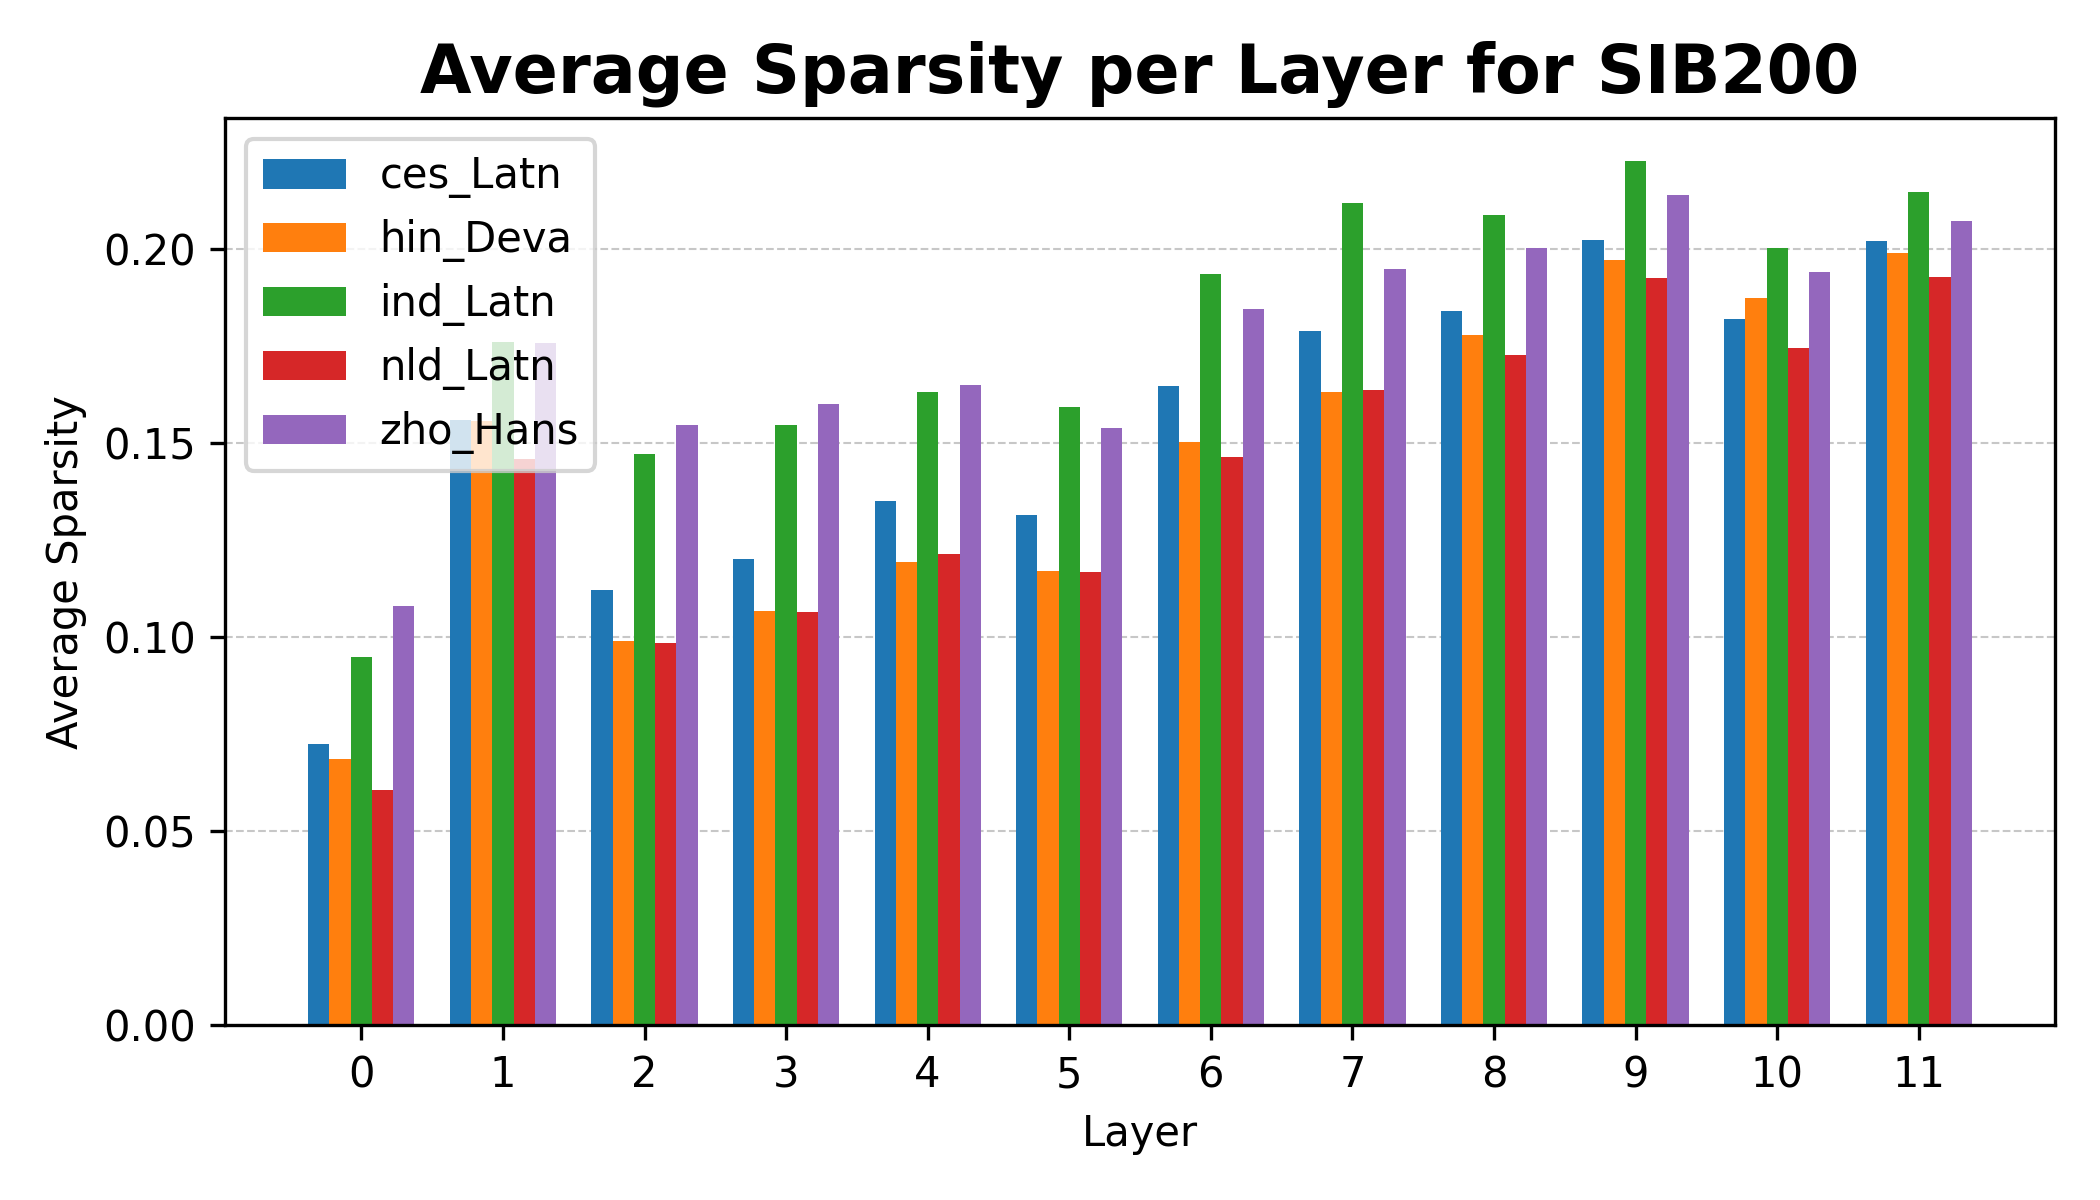
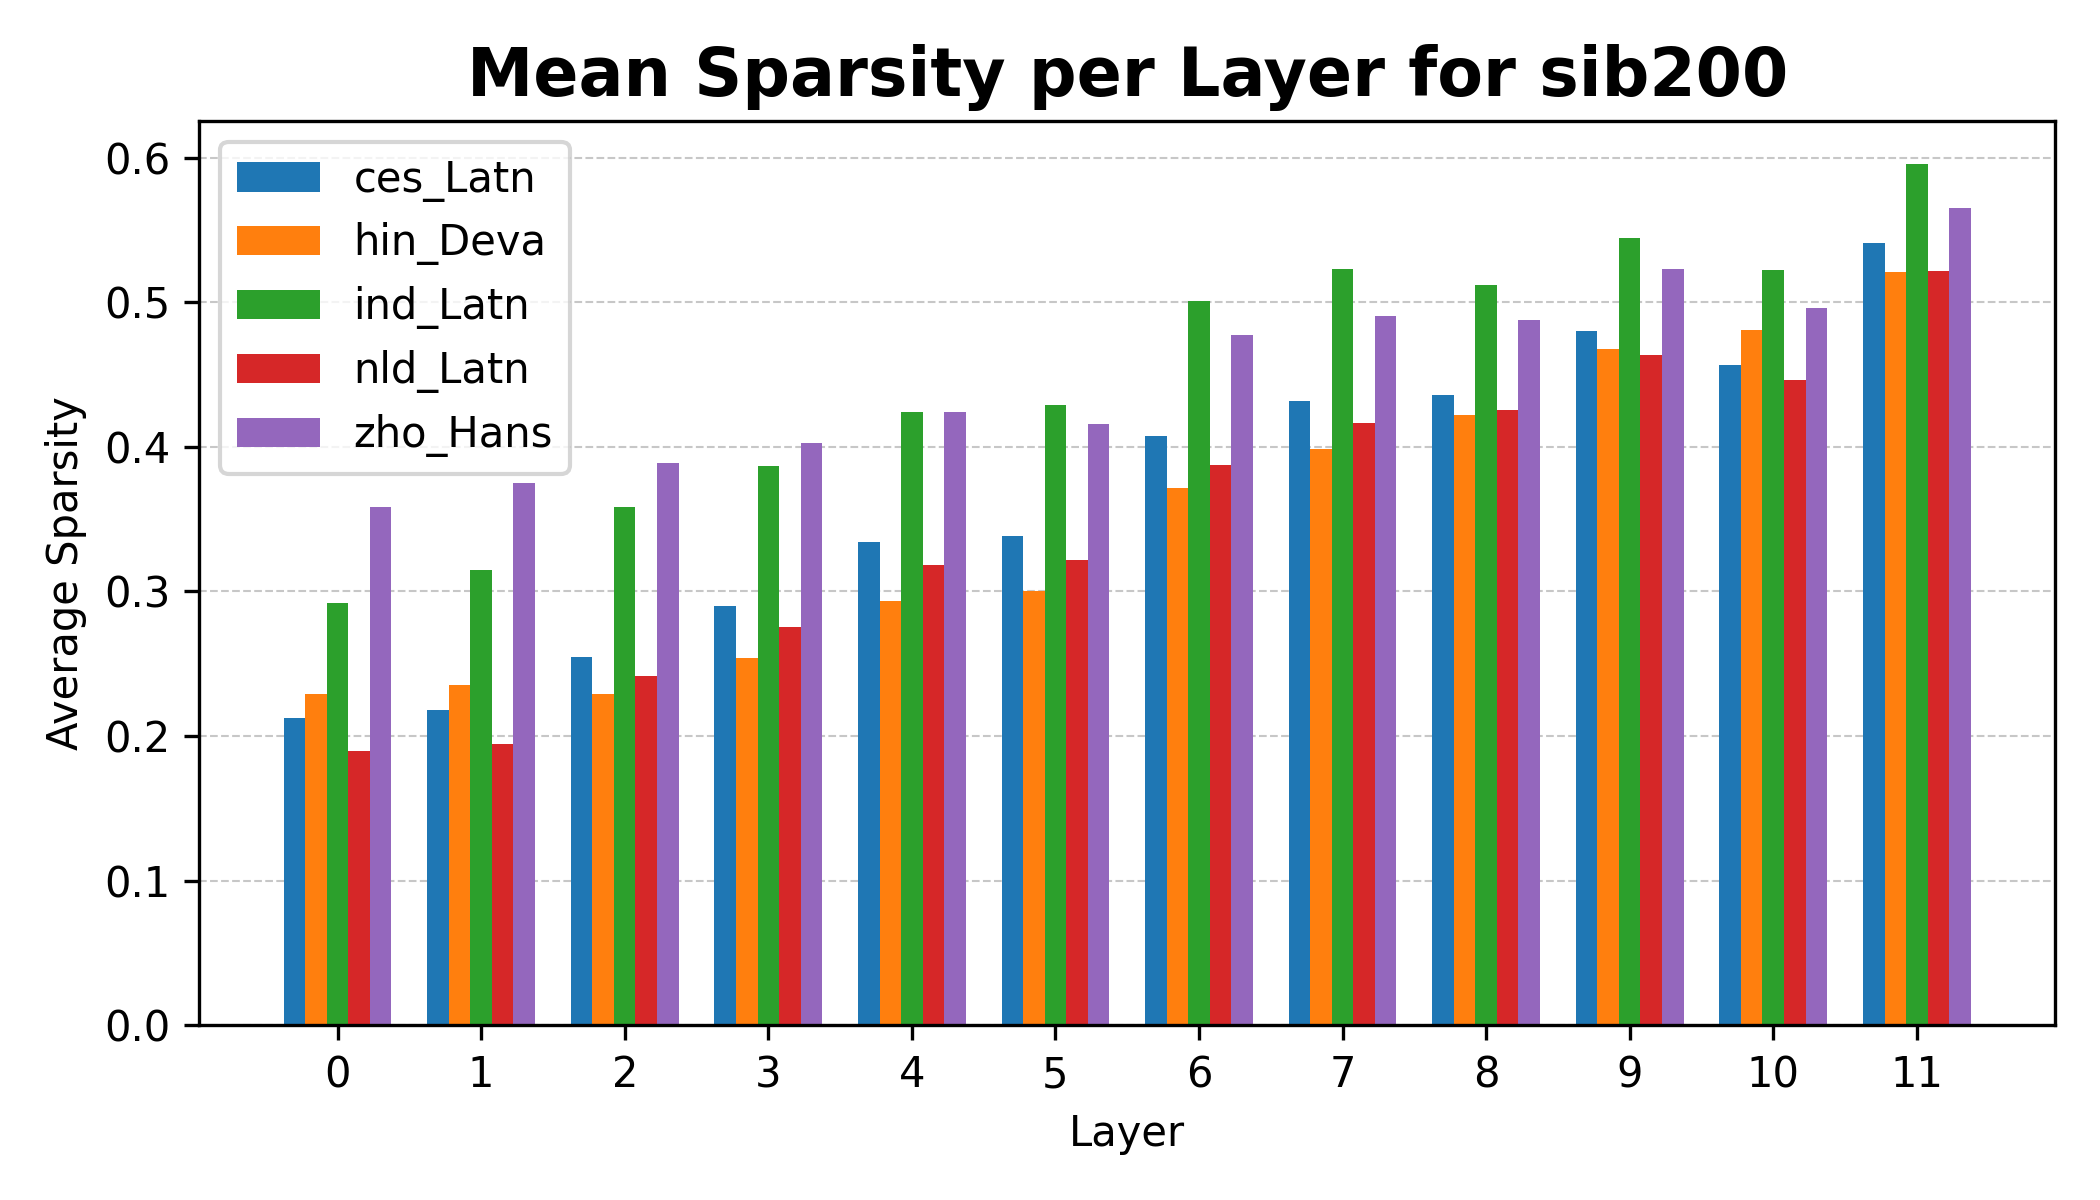
Update plots

Changed region(s): [[0.031, 0.0308, 0.9905, 0.9558], [0.8976, 0.8633, 0.9286, 0.8942], [0.031, 0.5858, 0.0619, 0.6167]]

diff --git a/plot_per_layer_across_tasks_v2.py b/plot_per_layer_across_tasks_v2.py
@@ -12,8 +12,8 @@ from utils.languages import get_lang_list
 def argparser():
     parser = argparse.ArgumentParser()
     parser.add_argument(
-        "--task_name",
-        default=SIB200,
+        "--lang_name",
+        default="cs",
         type=str,
         help="Name of the task.",
     )
@@ -47,23 +47,23 @@ def read_json(filename):
 if __name__ == "__main__":
     # python plot_per_layer.py --task_name=xnli --json_dir=results/mask_sim_snip
     args = argparser()
-    langs = get_lang_list(args.task_name)
     layers = list(range(12))  # Assuming 12 layers for XLM-R
 
-    task_name = args.task_name
+    tasks = ["xnli", "wikiann", "sib200", "toxitext"]
+
+    lang = args.lang_name
 
     for jacc_type in ["normalized_jacc", "regular_jacc"]:
 
-        sparsity_dict = {lang: {} for lang in langs}
         lang_pair_to_similarities_dict = dict()
 
-        for i in range(len(langs)):
-            for j in range(i + 1, len(langs)):
-                lang1 = langs[i]
-                lang2 = langs[j]
+        for i in range(len(tasks)):
+            for j in range(i + 1, len(tasks)):
+                task1 = tasks[i]
+                task2 = tasks[j]
                 lang_pair_similarities = []
                 for seed in args.seeds:
-                    json_path = os.path.join(args.json_dir, task_name, f"{lang1}-{lang2}-{seed}.json")
+                    json_path = os.path.join(args.json_dir, lang, f"{task1}-{task2}-{seed}.json")
                     sim_norm_data = read_json(json_path)["jaccard_sim_norm"]
                     # Assuming that the results dict contains layer.i keys for ith layer jaccard similarities
                     layer_sim_data = [sim_norm_data[f"encoder.layer.{l}."][jacc_type] for l in layers]
@@ -73,14 +73,14 @@ if __name__ == "__main__":
                         )
                     lang_pair_similarities.append(layer_sim_data)
 
-                lang_pair_to_similarities_dict[f"{lang1}-{lang2}"] = np.mean(
+                lang_pair_to_similarities_dict[f"{task1}-{task2}"] = np.mean(
                     lang_pair_similarities, axis=0
                 )
 
         print(lang_pair_to_similarities_dict)
 
         os.makedirs(args.output_dir, exist_ok=True)
-        output_path = os.path.join(args.output_dir, f"{jacc_type}-similarity_layer_{task_name}.png")
+        output_path = os.path.join(args.output_dir, f"{jacc_type}-similarity_layer_{lang}.png")
 
         fig, ax = plt.subplots(figsize=(7, 5))
 
@@ -94,7 +94,7 @@ if __name__ == "__main__":
 
         ax.set_xlabel("Layer")
         ax.set_ylabel("Mean Similarity")
-        title = f"Mean Similarity per Layer for {task_name}"
+        title = f"Mean Similarity per Layer for {lang}"
         ax.set_title(
             title if jacc_type == "regular_jacc" else f"Normalized {title}",
             fontsize=16,
@@ -109,5 +109,5 @@ if __name__ == "__main__":
         plt.tight_layout()
         plt.savefig(output_path, dpi=300)
 
-        print(f"Saved to similarity_layer_{task_name}.png!")
+        print(f"Saved to similarity_layer_{lang}.png!")
         plt.show()

diff --git a/subnet_plot_v2.py b/subnet_plot_v2.py
@@ -87,7 +87,8 @@ def plot_sparsity_per_layer(layer_sparsity, languages, output_path, task_name):
     pruning_type = "mag_pruning"
 
     for idx, lang in enumerate(languages):
-        label = f"{lang}+{pruning_type}"
+        # label = f"{lang}+{pruning_type}"
+        label = f"{lang}"
 
         ax.bar(
             x + idx * width,
@@ -116,9 +117,10 @@ def plot_sparsity_per_layer(layer_sparsity, languages, output_path, task_name):
 if __name__ == "__main__":
     args = argparser()
     langs = get_lang_list(args.task_name)
-    langs = ["en"]
     layers = list(range(12))  # Assuming 12 layers
     seeds = args.seeds
+
+    task_name = args.task_name
 
     layer_sparsity = np.zeros((len(layers), len(langs), len(seeds)))
 
@@ -135,15 +137,8 @@ if __name__ == "__main__":
                     layer_sparsity[l, idx, i] = list(spl[f"encoder.layer.{l}."].values())[0]
 
     layer_sparsity = layer_sparsity.mean(axis=2)
-
     print(layer_sparsity)
-    # To check if it's a specific task (due to the backslash)
-    if args.task_name == SIB200:
-        task_name = "SIB200"
-
-    else:
-        task_name = args.task_name
 
     os.makedirs(args.output_dir, exist_ok=True)
-    output_path = os.path.join(args.output_dir, f"sparsity_en_mag_{task_name}.png")
+    output_path = os.path.join(args.output_dir, f"sparsity_{task_name}.png")
     plot_sparsity_per_layer(layer_sparsity, langs, output_path, task_name)

diff --git a/plot_per_layer_stability_v2.py b/plot_per_layer_stability_v2.py
@@ -94,6 +94,7 @@ if __name__ == "__main__":
         ax.plot(
             layers,
             data,
+            marker="o",
             label=lang_pair,
         )
 
